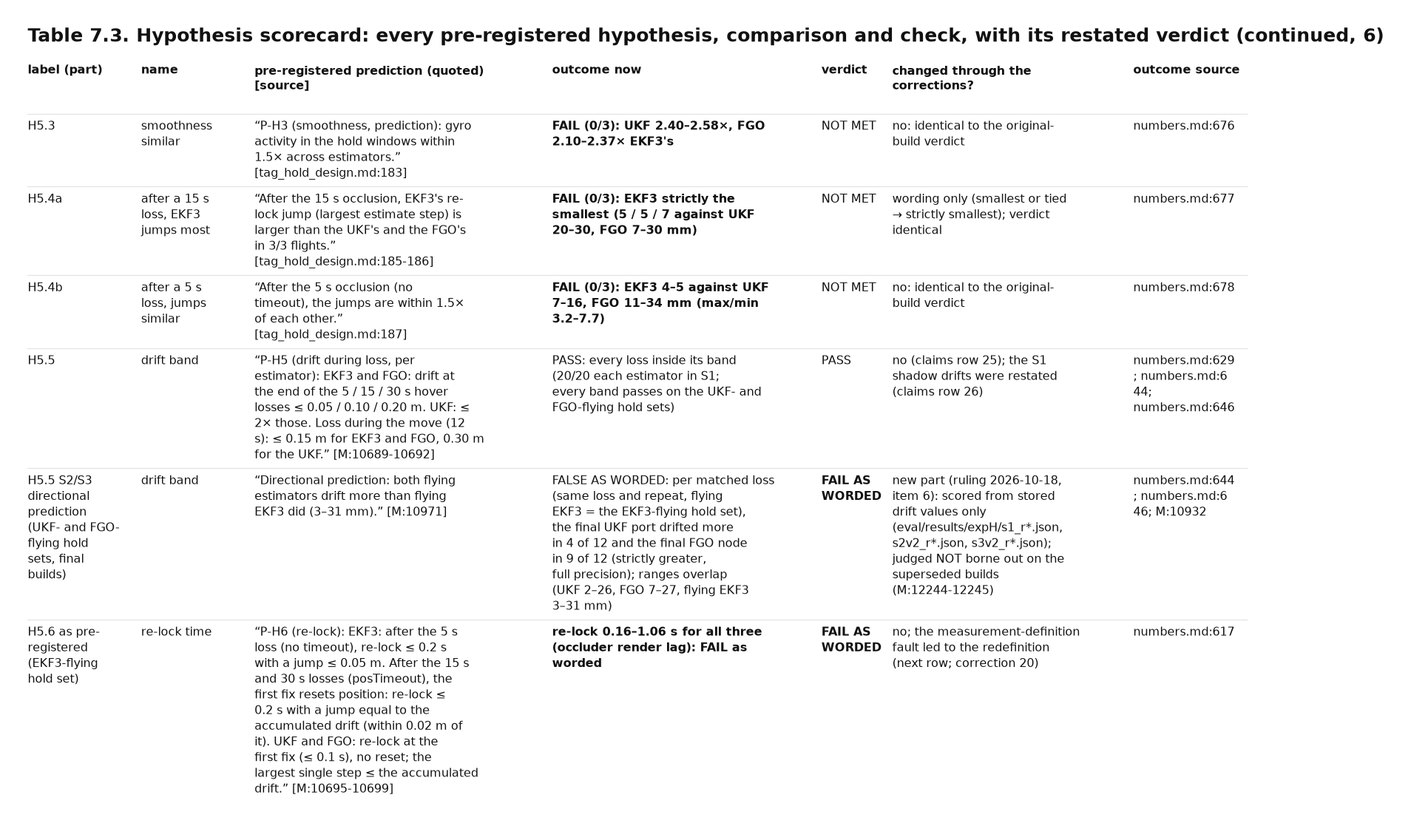
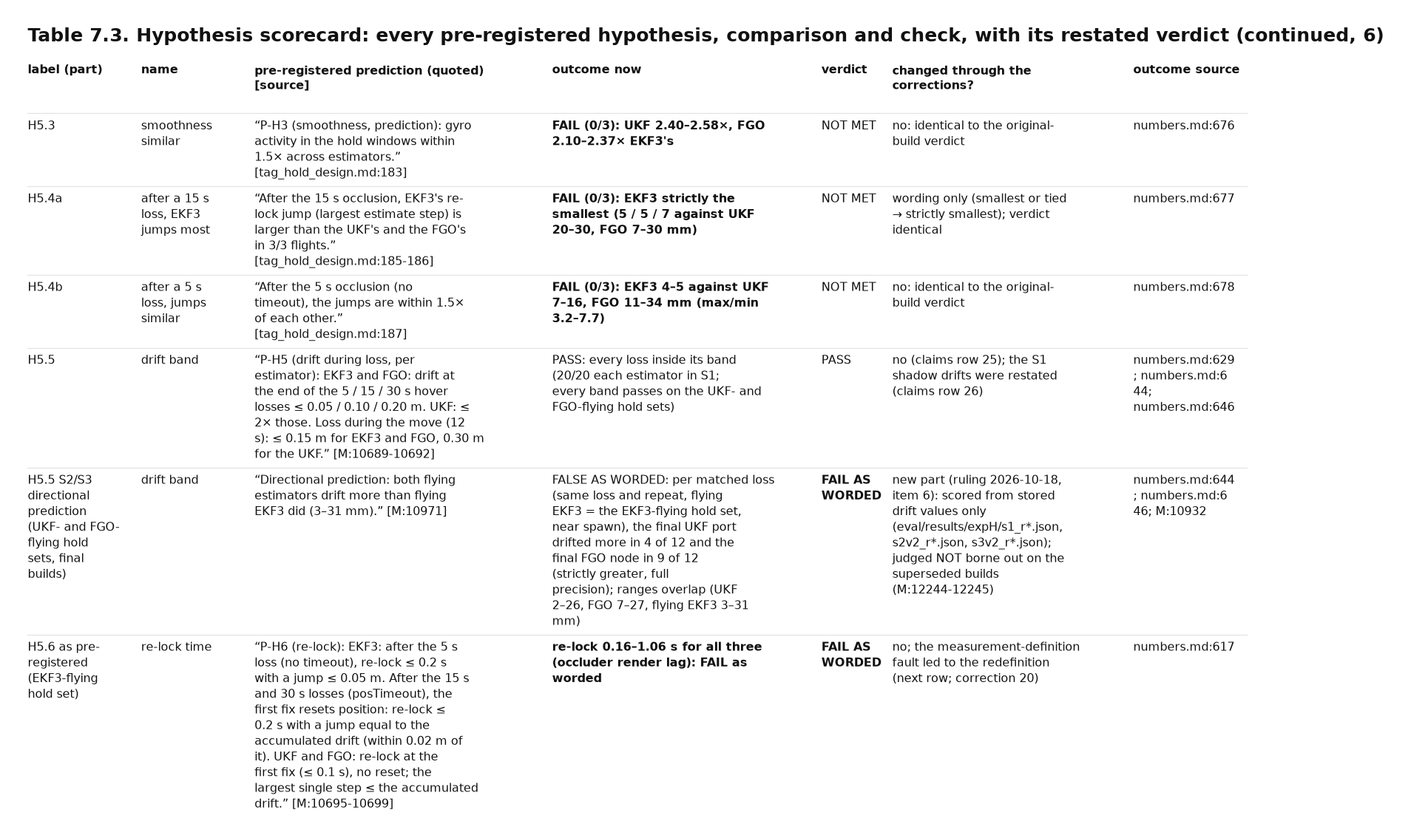
R1 H5.5 directional: comparator named near spawn, spawn-crossing caveat; FAIL AS WORDED rule includes a user ruling; handover: far-spawn sensitivity (UKF 4/12, FGO 7/12, still FALSE), RESULT headings undated

diff --git a/docs/thesis/tables/R1_hypothesis_scorecard.tex b/docs/thesis/tables/R1_hypothesis_scorecard.tex
@@ -1,4 +1,4 @@
-% Table 7.3 (PROPOSED; file R1_hypothesis_scorecard): generated by eval/figs_thesis_results.py (commit 0726900); stored results only. Sources and cross-checks: docs/thesis/figures_thesis/index_results.md.
+% Table 7.3 (PROPOSED; file R1_hypothesis_scorecard): generated by eval/figs_thesis_results.py (commit 6cfedde); stored results only. Sources and cross-checks: docs/thesis/figures_thesis/index_results.md.
 % Needs \usepackage{booktabs} and longtable-free layout; not compiled here (no TeX).
 \begin{table}[htbp]
 \centering
@@ -52,7 +52,7 @@ H5.3 & smoothness similar & ``P-H3 (smoothness, prediction): gyro activity in th
 H5.4a & after a 15 s loss, EKF3 jumps most & ``After the 15 s occlusion, EKF3's re-lock jump (largest estimate step) is larger than the UKF's and the FGO's in 3/3 flights.'' [tag\_hold\_design.md:185-186] & FAIL (0/3): EKF3 strictly the smallest (5 / 5 / 7 against UKF 20--30, FGO 7--30 mm) & NOT MET & wording only (smallest or tied $\rightarrow$ strictly smallest); verdict identical & numbers.md:677 \\
 H5.4b & after a 5 s loss, jumps similar & ``After the 5 s occlusion (no timeout), the jumps are within 1.5$\times$ of each other.'' [tag\_hold\_design.md:187] & FAIL (0/3): EKF3 4--5 against UKF 7--16, FGO 11--34 mm (max/min 3.2--7.7) & NOT MET & no: identical to the original-build verdict & numbers.md:678 \\
 H5.5 & drift band & ``P-H5 (drift during loss, per estimator): EKF3 and FGO: drift at the end of the 5 / 15 / 30 s hover losses $\le$ 0.05 / 0.10 / 0.20 m. UKF: $\le$ 2$\times$ those. Loss during the move (12 s): $\le$ 0.15 m for EKF3 and FGO, 0.30 m for the UKF.'' [M:10689-10692] & PASS: every loss inside its band (20/20 each estimator in S1; every band passes on the UKF- and FGO-flying hold sets) & PASS & no (claims row 25); the S1 shadow drifts were restated (claims row 26) & numbers.md:629; numbers.md:644; numbers.md:646 \\
-H5.5 S2/S3 directional prediction (UKF- and FGO-flying hold sets, final builds) & drift band & ``Directional prediction: both flying estimators drift more than flying EKF3 did (3--31 mm).'' [M:10971] & FALSE AS WORDED: per matched loss (same loss and repeat, flying EKF3 = the EKF3-flying hold set), the final UKF port drifted more in 4 of 12 and the final FGO node in 9 of 12 (strictly greater, full precision); ranges overlap (UKF 2--26, FGO 7--27, flying EKF3 3--31 mm) & FAIL AS WORDED & new part (ruling 2026-10-18, item 6): scored from stored drift values only (eval/results/expH/s1\_r*.json, s2v2\_r*.json, s3v2\_r*.json); judged NOT borne out on the superseded builds (M:12244-12245) & numbers.md:644; numbers.md:646; M:10932 \\
+H5.5 S2/S3 directional prediction (UKF- and FGO-flying hold sets, final builds) & drift band & ``Directional prediction: both flying estimators drift more than flying EKF3 did (3--31 mm).'' [M:10971] & FALSE AS WORDED: per matched loss (same loss and repeat, flying EKF3 = the EKF3-flying hold set, near spawn), the final UKF port drifted more in 4 of 12 and the final FGO node in 9 of 12 (strictly greater, full precision); ranges overlap (UKF 2--26, FGO 7--27, flying EKF3 3--31 mm) & FAIL AS WORDED & new part (ruling 2026-10-18, item 6): scored from stored drift values only (eval/results/expH/s1\_r*.json, s2v2\_r*.json, s3v2\_r*.json); judged NOT borne out on the superseded builds (M:12244-12245) & numbers.md:644; numbers.md:646; M:10932 \\
 H5.6 as pre-registered (EKF3-flying hold set) & re-lock time & ``P-H6 (re-lock): EKF3: after the 5 s loss (no timeout), re-lock $\le$ 0.2 s with a jump $\le$ 0.05 m. After the 15 s and 30 s losses (posTimeout), the first fix resets position: re-lock $\le$ 0.2 s with a jump equal to the accumulated drift (within 0.02 m of it). UKF and FGO: re-lock at the first fix ($\le$ 0.1 s), no reset; the largest single step $\le$ the accumulated drift.'' [M:10695-10699] & re-lock 0.16--1.06 s for all three (occluder render lag): FAIL as worded & FAIL AS WORDED & no; the measurement-definition fault led to the redefinition (next row; correction 20) & numbers.md:617 \\
 H5.6 redefined primary (UKF- and FGO-flying hold sets) & re-lock time & ``Re-lock time, PRIMARY: from the first returning tag detection (the first /tags/raw wall-tag detection after the loss) to the first fix fused by the flying estimator. UKF port: the first ExtNav position update in its log after that detection. FGO: the first keyframe whose factors include that fix. Reason: the S1 finding that Gazebo's occluder rendering lags set\_pose by 0.16--1.0 s, so cover-off timing measures the simulator. Band: $\le$ 0.1 s for both (UKF: VISO\_DELAY\_MS 31 ms plus one step; FGO: $\le$ one keyframe of 33 ms plus the node latency).'' [M:10948-10955] & PASS: UKF $-$0.048\ldots{}$-$0.015 s; FGO 0.002--0.032 s & PASS & a redefinition registered before the S2/S3 flights (correction 20), not a re-scoring of S1 & numbers.md:644; numbers.md:646 \\
 H5.6 jump criterion, kept as worded (UKF- and FGO-flying hold sets) & re-lock time & ``Jump criterion: kept as worded (the largest single estimate step in the 2 s after re-lock $\le$ the accumulated drift at re-lock; UKF/FGO converge without reset).'' [M:10957-10958] & fails as worded: final UKF port in most losses (steps 5--30 mm against drifts 2--26 mm); final FGO node in 4 of 12 losses. Why: the single-step correction at re-lock lands a few mm above the accumulated drift (numbers.md:644, 646) & FAIL AS WORDED & part kept as worded (ruling 2026-10-18; added by ruling 2026-10-17, verbatim wording): the S2/S3 pre-registration kept this criterion as worded; its outcome is recorded (numbers.md \S{}17.1) but was not scored as an H5.6 part before; no new analysis & numbers.md:644; numbers.md:646 \\
@@ -60,10 +60,10 @@ H5.7 & no lockout & ``P-H7 (lockout): no estimator locks out the returning tag i
 \bottomrule
 \end{tabular}
 \par\smallskip\raggedright
-\textit{Note.} Verdicts (the rule used here; the record's own word decides): PASS = the record says PASS, MET or TRUE (including a verdict 'accepted as worded'); FAIL AS WORDED = a failure the record itself labels 'as worded' (the literal verdict, kept although the wording is known to be faulty or unbanded; methodology draft, 'As worded'); NOT MET = a test that was run and whose rule was not met, recorded as FAIL, NOT met, FALSE or MISS without that label; WITHDRAWN = no longer made (methodology draft, 'Withdrawn'): V3 is not re-scorable, so its old PASS is listed and not restated; DESCRIPTIVE = no comparative test (C1.a is a pre-registered comparison with no decision rule; X1.b is exploratory).\par
+\textit{Note.} Verdicts (the rule used here; the record's own word decides): PASS = the record says PASS, MET or TRUE (including a verdict 'accepted as worded'); FAIL AS WORDED = a failure the record itself (or a user ruling) labels 'as worded' (the literal verdict, kept although the wording is known to be faulty or unbanded; methodology draft, 'As worded'); NOT MET = a test that was run and whose rule was not met, recorded as FAIL, NOT met, FALSE or MISS without that label; WITHDRAWN = no longer made (methodology draft, 'Withdrawn'): V3 is not re-scorable, so its old PASS is listed and not restated; DESCRIPTIVE = no comparative test (C1.a is a pre-registered comparison with no decision rule; X1.b is exploratory).\par
 \textit{Note.} Labels with parts are scored per part (H1.2 by wall type and floor, H1.3 (a)/(b), H1.6b and H1.6c (a)/(b), H1.8 and H1.9 per flying estimator, H5.5 its bands and the S2/S3 directional prediction, H5.6 as pre-registered, as redefined and its jump criterion kept as worded), so the counts are per part, not per label.\par
 \textit{Note.} Experiment 5 (ruling 2026-10-17): every H5 prediction is quoted VERBATIM (no ellipsis; checked unbroken in the cited lines, markdown removed) and its verdict is judged against that wording. H5.1, H5.5, H5.6 (as pre-registered) and H5.7 are quoted from the S0/S1 pre-registration (M:10623, 'written before any H flight'); the H5.6 redefinition and its kept jump criterion from the S2/S3 pre-registration (M:10946, 'before any S2/S3 flight'). H5.2--H5.4b have no METHODOLOGY pre-registration line; their only pre-registration is the design draft (tag\_hold\_design.md \S{}e), whose text is unchanged since commit c11fcf3 (2026-10-08 15:17), before the first Experiment 5 flight. Two wordings exist for H5.1 and H5.5: the design draft says 'H-H1 (primary): every estimator holds within tag-fix accuracy. Mean hold error $\le$ 0.05 m and max $\le$ 0.15 m in 3/3 flights per estimator.' (tag\_hold\_design.md:176-177) and 'P-H5 (drift during loss, prediction): GT drift during the 15 s occlusion $\le$ 0.3 m for every estimator.' (tag\_hold\_design.md:188); the METHODOLOGY wording is the one scored. Both PASS under either wording (flying hold sets 6.1--7.4 / 17--21 mm UKF and 8.1--9.0 / 18--28 mm FGO, numbers.md:644, 646; the draft's P-H5 was scored PASS at M:12243).\par
-\textit{Note.} H5.5 S2/S3 directional prediction (ruling 2026-10-18): 'both flying estimators drift more than flying EKF3 did (3--31 mm)' (M:10971, in the S2/S3 pre-registration), scored as worded on the final builds (final UKF port H\_s2v2\_r*, final FGO node H\_s3v2\_r*) against flying EKF3 (the EKF3-flying hold set H\_s1\_r*; the EKF3 shadows of the S2/S3 flights are not used), from stored drift values only. Primary: per matched loss (the same loss, 5 / 15 / 30 s hover or \textasciitilde{}7 s move, and the same repeat: 12 per estimator), 'more' = strictly greater at full precision, on the effective drift (last fix to first returning fix), the metric of the registered 3--31 mm (M:10827-10828); it holds iff both estimators exceed flying EKF3 in every matched loss. Result: UKF 4 of 12, FGO 9 of 12; the end-of-loss metric gives the same counts; at the displayed mm precision UKF 3 of 12 (one UKF pair, repeat 2, 30 s loss, equal at that precision) and FGO 9 of 12. The ranges overlap (UKF 2--26, FGO 7--27, flying EKF3 3--31 mm). FALSE AS WORDED, counted as FAIL AS WORDED. Caveat (M:12249): each estimator flew its own flights, so the pairing is by run index, not the same trajectory. The superseded builds were judged NOT borne out (M:12244-12245).\par
+\textit{Note.} H5.5 S2/S3 directional prediction (ruling 2026-10-18): 'both flying estimators drift more than flying EKF3 did (3--31 mm)' (M:10971, in the S2/S3 pre-registration), scored as worded on the final builds (final UKF port H\_s2v2\_r*, final FGO node H\_s3v2\_r*) against flying EKF3 (the EKF3-flying hold set H\_s1\_r*, near spawn, the source of the registered 3--31 mm; the EKF3 shadows of the S2/S3 flights are not used), from stored drift values only. Primary: per matched loss (the same loss, 5 / 15 / 30 s hover or \textasciitilde{}7 s move, and the same repeat: 12 per estimator), 'more' = strictly greater at full precision, on the effective drift (last fix to first returning fix), the metric of the registered 3--31 mm (M:10827-10828); it holds iff both estimators exceed flying EKF3 in every matched loss. Result: UKF 4 of 12, FGO 9 of 12; the end-of-loss metric gives the same counts; at the displayed mm precision UKF 3 of 12 (one UKF pair, repeat 2, 30 s loss, equal at that precision) and FGO 9 of 12. The ranges overlap (UKF 2--26, FGO 7--27, flying EKF3 3--31 mm). FALSE AS WORDED, counted as FAIL AS WORDED. Caveat (M:12249): each estimator flew its own flights, so the pairing is by run index, not the same trajectory; it also crosses spawn points (the final-build UKF and FGO sets flew from the far spawn). The superseded builds were judged NOT borne out (M:12244-12245).\par
 \textit{Note.} H1.3 is shown as recorded on 2026-09-29 (M:3440-3448): no restated Phase 5 verdict exists after the final re-runs, only the restated decomposition magnitudes (numbers.md:263). The criteria families without hypothesis labels (dataset-quality bands, the 5S safety criteria) are not scored here: numbers.md \S{}8 and Table A.2.\par
 \textit{Note.} 'Changed through the corrections?' names the claims-table row (headline\_claims\_before\_after.md) and the correction number (Table 7.4) where the sources link them. Corrections applied in one batch are applied jointly and not attributed individually (corrections file, attribution rule); a correction number after a change means 'in the batch that contained it', except where marked as a flight pair or a partial attribution.\par
 \end{table}

diff --git a/eval/figs_thesis_results.py b/eval/figs_thesis_results.py
@@ -158,7 +158,7 @@ def save_tab(num, name, title, caption, header, rows, widths, inputs, notes=(), 
 # =============================================================================================== R1 HYPOTHESIS SCORECARD
 # Verdict categories (rule stated in the table note and index_results.md):
 #   PASS            the record's verdict word is PASS, MET or TRUE (incl. "accepted as worded")
-#   FAIL AS WORDED  a failure that the record itself labels "as worded" (methodology_definitions_draft.md, "As worded")
+#   FAIL AS WORDED  a failure that the record itself (or a user ruling) labels "as worded" (methodology_definitions_draft.md, "As worded")
 #   NOT MET         a test run whose decision rule was not met, recorded as FAIL, NOT met, FALSE or MISS, with no "as worded" label
 #   WITHDRAWN       no longer made (methodology_definitions_draft.md, "Withdrawn"); V3 is listed, not restated
 #   DESCRIPTIVE     no comparative test: a pre-registered comparison with no decision rule (C) or an exploratory analysis (X)
@@ -449,7 +449,7 @@ R1 = [
  ("H5.5", "drift band", "S2/S3 directional prediction (UKF- and FGO-flying hold sets, final builds)",
   "Directional prediction: both flying estimators drift more than flying EKF3 did (3–31 mm).", ("M", 10971, None),
   ["Directional prediction: both flying estimators drift more than flying EKF3 did (3–31 mm)."],
-  f"FALSE AS WORDED: per matched loss (same loss and repeat, flying EKF3 = the EKF3-flying hold set), the final UKF port drifted more "
+  f"FALSE AS WORDED: per matched loss (same loss and repeat, flying EKF3 = the EKF3-flying hold set, near spawn), the final UKF port drifted more "
   f"in {H5D['n_ukf']} and the final FGO node in {H5D['n_fgo']} (strictly greater, full precision); ranges overlap (UKF {H5D['r_ukf']}, "
   f"FGO {H5D['r_fgo']}, flying EKF3 {H5D['r_ekf']} mm)",
   [("numbers.md", 644, None, [H5D["l_ukf"], "drifts 2–26 mm"]), ("numbers.md", 646, None, [H5D["l_fgo"]]),
@@ -570,7 +570,7 @@ save_tab("Table 7.3", "R1_hypothesis_scorecard", "Hypothesis scorecard: every pr
          "METHODOLOGY.md and docs/tag_hold_design.md (predictions); docs/thesis/numbers.md (outcomes); docs/thesis/headline_claims_before_after.md "
          "(claims rows); eval/results/dsn_paired_test.json, expT/t_aggregate.json, expO/O_*.json (numeric cross-checks)",
          notes=["Verdicts (the rule used here; the record's own word decides): PASS = the record says PASS, MET or TRUE (including a verdict "
-                "'accepted as worded'); FAIL AS WORDED = a failure the record itself labels 'as worded' (the literal verdict, kept although the "
+                "'accepted as worded'); FAIL AS WORDED = a failure the record itself (or a user ruling) labels 'as worded' (the literal verdict, kept although the "
                 "wording is known to be faulty or unbanded; methodology draft, 'As worded'); NOT MET = a test that was run and whose rule was not "
                 "met, recorded as FAIL, NOT met, FALSE or MISS without that label; WITHDRAWN = no longer made (methodology draft, 'Withdrawn'): V3 "
                 "is not re-scorable, so its old PASS is listed and not restated; DESCRIPTIVE = no comparative test (C1.a is a pre-registered "
@@ -589,7 +589,7 @@ save_tab("Table 7.3", "R1_hypothesis_scorecard", "Hypothesis scorecard: every pr
                 "M:12243).",
                 "H5.5 S2/S3 directional prediction (ruling 2026-10-18): 'both flying estimators drift more than flying EKF3 did (3–31 mm)' "
                 "(M:10971, in the S2/S3 pre-registration), scored as worded on the final builds (final UKF port H_s2v2_r*, final FGO node "
-                "H_s3v2_r*) against flying EKF3 (the EKF3-flying hold set H_s1_r*; the EKF3 shadows of the S2/S3 flights are not used), "
+                "H_s3v2_r*) against flying EKF3 (the EKF3-flying hold set H_s1_r*, near spawn, the source of the registered 3–31 mm; the EKF3 shadows of the S2/S3 flights are not used), "
                 "from stored drift values only. Primary: per matched loss (the same loss, 5 / 15 / 30 s hover or ~7 s move, and the same "
                 "repeat: 12 per estimator), 'more' = strictly greater at full precision, on the effective drift (last fix to first "
                 "returning fix), the metric of the registered 3–31 mm (M:10827-10828); it holds iff both estimators exceed flying EKF3 in "
@@ -597,7 +597,7 @@ save_tab("Table 7.3", "R1_hypothesis_scorecard", "Hypothesis scorecard: every pr
                 f"displayed mm precision UKF {H5D['ndisp_ukf']} (one UKF pair, repeat 2, 30 s loss, equal at that precision) and FGO "
                 f"{H5D['ndisp_fgo']}. The ranges overlap (UKF {H5D['r_ukf']}, FGO {H5D['r_fgo']}, flying EKF3 {H5D['r_ekf']} mm). FALSE AS "
                 "WORDED, counted as FAIL AS WORDED. Caveat (M:12249): each estimator flew its own flights, so the pairing is by run index, "
-                "not the same trajectory. The superseded builds were judged NOT borne out (M:12244-12245).",
+                "not the same trajectory; it also crosses spawn points (the final-build UKF and FGO sets flew from the far spawn). The superseded builds were judged NOT borne out (M:12244-12245).",
                 "H1.3 is shown as recorded on 2026-09-29 (M:3440-3448): no restated Phase 5 verdict exists after the final re-runs, only the restated "
                 "decomposition magnitudes (numbers.md:263). The criteria families without hypothesis labels (dataset-quality bands, the 5S safety "
                 "criteria) are not scored here: numbers.md §8 and Table A.2.",

diff --git a/docs/thesis/tables/R2_corrections_by_discovery.tex b/docs/thesis/tables/R2_corrections_by_discovery.tex
@@ -1,4 +1,4 @@
-% Table 7.4 (PROPOSED; file R2_corrections_by_discovery): generated by eval/figs_thesis_results.py (commit 0726900); stored results only. Sources and cross-checks: docs/thesis/figures_thesis/index_results.md.
+% Table 7.4 (PROPOSED; file R2_corrections_by_discovery): generated by eval/figs_thesis_results.py (commit 6cfedde); stored results only. Sources and cross-checks: docs/thesis/figures_thesis/index_results.md.
 % Needs \usepackage{booktabs} and longtable-free layout; not compiled here (no TeX).
 \begin{table}[htbp]
 \centering

diff --git a/docs/thesis/tables/R4_information_vs_estimator.tex b/docs/thesis/tables/R4_information_vs_estimator.tex
@@ -1,4 +1,4 @@
-% Table 7.5 (PROPOSED; file R4_information_vs_estimator): generated by eval/figs_thesis_results.py (commit 0726900); stored results only. Sources and cross-checks: docs/thesis/figures_thesis/index_results.md.
+% Table 7.5 (PROPOSED; file R4_information_vs_estimator): generated by eval/figs_thesis_results.py (commit 6cfedde); stored results only. Sources and cross-checks: docs/thesis/figures_thesis/index_results.md.
 % Needs \usepackage{booktabs} and longtable-free layout; not compiled here (no TeX).
 \begin{table}[htbp]
 \centering

diff --git a/docs/thesis/tables/R1_hypothesis_scorecard.md b/docs/thesis/tables/R1_hypothesis_scorecard.md
@@ -47,22 +47,22 @@ Each row quotes the pre-registered prediction (with its source line), the outcom
 | H5.4a | after a 15 s loss, EKF3 jumps most | “After the 15 s occlusion, EKF3's re-lock jump (largest estimate step) is larger than the UKF's and the FGO's in 3/3 flights.” [tag_hold_design.md:185-186] | FAIL (0/3): EKF3 strictly the smallest (5 / 5 / 7 against UKF 20–30, FGO 7–30 mm) | NOT MET | wording only (smallest or tied → strictly smallest); verdict identical | numbers.md:677 |
 | H5.4b | after a 5 s loss, jumps similar | “After the 5 s occlusion (no timeout), the jumps are within 1.5× of each other.” [tag_hold_design.md:187] | FAIL (0/3): EKF3 4–5 against UKF 7–16, FGO 11–34 mm (max/min 3.2–7.7) | NOT MET | no: identical to the original-build verdict | numbers.md:678 |
 | H5.5 | drift band | “P-H5 (drift during loss, per estimator): EKF3 and FGO: drift at the end of the 5 / 15 / 30 s hover losses ≤ 0.05 / 0.10 / 0.20 m. UKF: ≤ 2× those. Loss during the move (12 s): ≤ 0.15 m for EKF3 and FGO, 0.30 m for the UKF.” [M:10689-10692] | PASS: every loss inside its band (20/20 each estimator in S1; every band passes on the UKF- and FGO-flying hold sets) | PASS | no (claims row 25); the S1 shadow drifts were restated (claims row 26) | numbers.md:629; numbers.md:644; numbers.md:646 |
-| H5.5 S2/S3 directional prediction (UKF- and FGO-flying hold sets, final builds) | drift band | “Directional prediction: both flying estimators drift more than flying EKF3 did (3–31 mm).” [M:10971] | FALSE AS WORDED: per matched loss (same loss and repeat, flying EKF3 = the EKF3-flying hold set), the final UKF port drifted more in 4 of 12 and the final FGO node in 9 of 12 (strictly greater, full precision); ranges overlap (UKF 2–26, FGO 7–27, flying EKF3 3–31 mm) | FAIL AS WORDED | new part (ruling 2026-10-18, item 6): scored from stored drift values only (eval/results/expH/s1_r*.json, s2v2_r*.json, s3v2_r*.json); judged NOT borne out on the superseded builds (M:12244-12245) | numbers.md:644; numbers.md:646; M:10932 |
+| H5.5 S2/S3 directional prediction (UKF- and FGO-flying hold sets, final builds) | drift band | “Directional prediction: both flying estimators drift more than flying EKF3 did (3–31 mm).” [M:10971] | FALSE AS WORDED: per matched loss (same loss and repeat, flying EKF3 = the EKF3-flying hold set, near spawn), the final UKF port drifted more in 4 of 12 and the final FGO node in 9 of 12 (strictly greater, full precision); ranges overlap (UKF 2–26, FGO 7–27, flying EKF3 3–31 mm) | FAIL AS WORDED | new part (ruling 2026-10-18, item 6): scored from stored drift values only (eval/results/expH/s1_r*.json, s2v2_r*.json, s3v2_r*.json); judged NOT borne out on the superseded builds (M:12244-12245) | numbers.md:644; numbers.md:646; M:10932 |
 | H5.6 as pre-registered (EKF3-flying hold set) | re-lock time | “P-H6 (re-lock): EKF3: after the 5 s loss (no timeout), re-lock ≤ 0.2 s with a jump ≤ 0.05 m. After the 15 s and 30 s losses (posTimeout), the first fix resets position: re-lock ≤ 0.2 s with a jump equal to the accumulated drift (within 0.02 m of it). UKF and FGO: re-lock at the first fix (≤ 0.1 s), no reset; the largest single step ≤ the accumulated drift.” [M:10695-10699] | re-lock 0.16–1.06 s for all three (occluder render lag): FAIL as worded | FAIL AS WORDED | no; the measurement-definition fault led to the redefinition (next row; correction 20) | numbers.md:617 |
 | H5.6 redefined primary (UKF- and FGO-flying hold sets) | re-lock time | “Re-lock time, PRIMARY: from the first returning tag detection (the first /tags/raw wall-tag detection after the loss) to the first fix fused by the flying estimator. UKF port: the first ExtNav position update in its log after that detection. FGO: the first keyframe whose factors include that fix. Reason: the S1 finding that Gazebo's occluder rendering lags set_pose by 0.16–1.0 s, so cover-off timing measures the simulator. Band: ≤ 0.1 s for both (UKF: VISO_DELAY_MS 31 ms plus one step; FGO: ≤ one keyframe of 33 ms plus the node latency).” [M:10948-10955] | PASS: UKF −0.048…−0.015 s; FGO 0.002–0.032 s | PASS | a redefinition registered before the S2/S3 flights (correction 20), not a re-scoring of S1 | numbers.md:644; numbers.md:646 |
 | H5.6 jump criterion, kept as worded (UKF- and FGO-flying hold sets) | re-lock time | “Jump criterion: kept as worded (the largest single estimate step in the 2 s after re-lock ≤ the accumulated drift at re-lock; UKF/FGO converge without reset).” [M:10957-10958] | fails as worded: final UKF port in most losses (steps 5–30 mm against drifts 2–26 mm); final FGO node in 4 of 12 losses. Why: the single-step correction at re-lock lands a few mm above the accumulated drift (numbers.md:644, 646) | FAIL AS WORDED | part kept as worded (ruling 2026-10-18; added by ruling 2026-10-17, verbatim wording): the S2/S3 pre-registration kept this criterion as worded; its outcome is recorded (numbers.md §17.1) but was not scored as an H5.6 part before; no new analysis | numbers.md:644; numbers.md:646 |
 | H5.7 | no lockout | “P-H7 (lockout): no estimator locks out the returning tag in any loss.” [M:10700] | PASS: no lockout in any loss | PASS | no (claims row 25) | numbers.md:629 |
 
-*Verdicts (the rule used here; the record's own word decides): PASS = the record says PASS, MET or TRUE (including a verdict 'accepted as worded'); FAIL AS WORDED = a failure the record itself labels 'as worded' (the literal verdict, kept although the wording is known to be faulty or unbanded; methodology draft, 'As worded'); NOT MET = a test that was run and whose rule was not met, recorded as FAIL, NOT met, FALSE or MISS without that label; WITHDRAWN = no longer made (methodology draft, 'Withdrawn'): V3 is not re-scorable, so its old PASS is listed and not restated; DESCRIPTIVE = no comparative test (C1.a is a pre-registered comparison with no decision rule; X1.b is exploratory).*
+*Verdicts (the rule used here; the record's own word decides): PASS = the record says PASS, MET or TRUE (including a verdict 'accepted as worded'); FAIL AS WORDED = a failure the record itself (or a user ruling) labels 'as worded' (the literal verdict, kept although the wording is known to be faulty or unbanded; methodology draft, 'As worded'); NOT MET = a test that was run and whose rule was not met, recorded as FAIL, NOT met, FALSE or MISS without that label; WITHDRAWN = no longer made (methodology draft, 'Withdrawn'): V3 is not re-scorable, so its old PASS is listed and not restated; DESCRIPTIVE = no comparative test (C1.a is a pre-registered comparison with no decision rule; X1.b is exploratory).*
 
 *Labels with parts are scored per part (H1.2 by wall type and floor, H1.3 (a)/(b), H1.6b and H1.6c (a)/(b), H1.8 and H1.9 per flying estimator, H5.5 its bands and the S2/S3 directional prediction, H5.6 as pre-registered, as redefined and its jump criterion kept as worded), so the counts are per part, not per label.*
 
 *Experiment 5 (ruling 2026-10-17): every H5 prediction is quoted VERBATIM (no ellipsis; checked unbroken in the cited lines, markdown removed) and its verdict is judged against that wording. H5.1, H5.5, H5.6 (as pre-registered) and H5.7 are quoted from the S0/S1 pre-registration (M:10623, 'written before any H flight'); the H5.6 redefinition and its kept jump criterion from the S2/S3 pre-registration (M:10946, 'before any S2/S3 flight'). H5.2–H5.4b have no METHODOLOGY pre-registration line; their only pre-registration is the design draft (tag_hold_design.md §e), whose text is unchanged since commit c11fcf3 (2026-10-08 15:17), before the first Experiment 5 flight. Two wordings exist for H5.1 and H5.5: the design draft says 'H-H1 (primary): every estimator holds within tag-fix accuracy. Mean hold error ≤ 0.05 m and max ≤ 0.15 m in 3/3 flights per estimator.' (tag_hold_design.md:176-177) and 'P-H5 (drift during loss, prediction): GT drift during the 15 s occlusion ≤ 0.3 m for every estimator.' (tag_hold_design.md:188); the METHODOLOGY wording is the one scored. Both PASS under either wording (flying hold sets 6.1–7.4 / 17–21 mm UKF and 8.1–9.0 / 18–28 mm FGO, numbers.md:644, 646; the draft's P-H5 was scored PASS at M:12243).*
 
-*H5.5 S2/S3 directional prediction (ruling 2026-10-18): 'both flying estimators drift more than flying EKF3 did (3–31 mm)' (M:10971, in the S2/S3 pre-registration), scored as worded on the final builds (final UKF port H_s2v2_r*, final FGO node H_s3v2_r*) against flying EKF3 (the EKF3-flying hold set H_s1_r*; the EKF3 shadows of the S2/S3 flights are not used), from stored drift values only. Primary: per matched loss (the same loss, 5 / 15 / 30 s hover or ~7 s move, and the same repeat: 12 per estimator), 'more' = strictly greater at full precision, on the effective drift (last fix to first returning fix), the metric of the registered 3–31 mm (M:10827-10828); it holds iff both estimators exceed flying EKF3 in every matched loss. Result: UKF 4 of 12, FGO 9 of 12; the end-of-loss metric gives the same counts; at the displayed mm precision UKF 3 of 12 (one UKF pair, repeat 2, 30 s loss, equal at that precision) and FGO 9 of 12. The ranges overlap (UKF 2–26, FGO 7–27, flying EKF3 3–31 mm). FALSE AS WORDED, counted as FAIL AS WORDED. Caveat (M:12249): each estimator flew its own flights, so the pairing is by run index, not the same trajectory. The superseded builds were judged NOT borne out (M:12244-12245).*
+*H5.5 S2/S3 directional prediction (ruling 2026-10-18): 'both flying estimators drift more than flying EKF3 did (3–31 mm)' (M:10971, in the S2/S3 pre-registration), scored as worded on the final builds (final UKF port H_s2v2_r*, final FGO node H_s3v2_r*) against flying EKF3 (the EKF3-flying hold set H_s1_r*, near spawn, the source of the registered 3–31 mm; the EKF3 shadows of the S2/S3 flights are not used), from stored drift values only. Primary: per matched loss (the same loss, 5 / 15 / 30 s hover or ~7 s move, and the same repeat: 12 per estimator), 'more' = strictly greater at full precision, on the effective drift (last fix to first returning fix), the metric of the registered 3–31 mm (M:10827-10828); it holds iff both estimators exceed flying EKF3 in every matched loss. Result: UKF 4 of 12, FGO 9 of 12; the end-of-loss metric gives the same counts; at the displayed mm precision UKF 3 of 12 (one UKF pair, repeat 2, 30 s loss, equal at that precision) and FGO 9 of 12. The ranges overlap (UKF 2–26, FGO 7–27, flying EKF3 3–31 mm). FALSE AS WORDED, counted as FAIL AS WORDED. Caveat (M:12249): each estimator flew its own flights, so the pairing is by run index, not the same trajectory; it also crosses spawn points (the final-build UKF and FGO sets flew from the far spawn). The superseded builds were judged NOT borne out (M:12244-12245).*
 
 *H1.3 is shown as recorded on 2026-09-29 (M:3440-3448): no restated Phase 5 verdict exists after the final re-runs, only the restated decomposition magnitudes (numbers.md:263). The criteria families without hypothesis labels (dataset-quality bands, the 5S safety criteria) are not scored here: numbers.md §8 and Table A.2.*
 
 *'Changed through the corrections?' names the claims-table row (headline_claims_before_after.md) and the correction number (Table 7.4) where the sources link them. Corrections applied in one batch are applied jointly and not attributed individually (corrections file, attribution rule); a correction number after a change means 'in the batch that contained it', except where marked as a flight pair or a partial attribution.*
 
-<!-- generated by eval/figs_thesis_results.py (commit 0726900); stored results only. Sources, cross-checks and gaps: docs/thesis/figures_thesis/index_results.md, Table 7.3 (PROPOSED). -->
+<!-- generated by eval/figs_thesis_results.py (commit 6cfedde); stored results only. Sources, cross-checks and gaps: docs/thesis/figures_thesis/index_results.md, Table 7.3 (PROPOSED). -->

diff --git a/docs/thesis/figures_thesis/index_results.md b/docs/thesis/figures_thesis/index_results.md
@@ -1,6 +1,6 @@
 # Results and discussion tables and figure: index (PROPOSED numbering)
 
-*Generated by `eval/figs_thesis_results.py` at commit `0726900`. Stored results and documents only: no simulation, no estimator re-run, and nothing in numbers.md, METHODOLOGY.md, the frozen pack or the in-use thesis files was edited. Not yet in the combined PDF (integration comes later).*
+*Generated by `eval/figs_thesis_results.py` at commit `6cfedde`. Stored results and documents only: no simulation, no estimator re-run, and nothing in numbers.md, METHODOLOGY.md, the frozen pack or the in-use thesis files was edited. Not yet in the combined PDF (integration comes later).*
 
[1 lines of base64/hex data omitted]
 
@@ -21,13 +21,13 @@ None of these numbers is used in `figs_thesis.py`'s TNUM (4.1, 5.1–5.3, 6.1, 7
 
 **Caption.** Each row quotes the pre-registered prediction (with its source line), the outcome now (after the final re-runs and the rulings of 2026-10-16) and one of five verdicts. Counts per scored part (48 parts, 35 labels): PASS 24, FAIL AS WORDED 5, NOT MET 16, WITHDRAWN 1, DESCRIPTIVE 2.
 
-*Note.* Verdicts (the rule used here; the record's own word decides): PASS = the record says PASS, MET or TRUE (including a verdict 'accepted as worded'); FAIL AS WORDED = a failure the record itself labels 'as worded' (the literal verdict, kept although the wording is known to be faulty or unbanded; methodology draft, 'As worded'); NOT MET = a test that was run and whose rule was not met, recorded as FAIL, NOT met, FALSE or MISS without that label; WITHDRAWN = no longer made (methodology draft, 'Withdrawn'): V3 is not re-scorable, so its old PASS is listed and not restated; DESCRIPTIVE = no comparative test (C1.a is a pre-registered comparison with no decision rule; X1.b is exploratory).
+*Note.* Verdicts (the rule used here; the record's own word decides): PASS = the record says PASS, MET or TRUE (including a verdict 'accepted as worded'); FAIL AS WORDED = a failure the record itself (or a user ruling) labels 'as worded' (the literal verdict, kept although the wording is known to be faulty or unbanded; methodology draft, 'As worded'); NOT MET = a test that was run and whose rule was not met, recorded as FAIL, NOT met, FALSE or MISS without that label; WITHDRAWN = no longer made (methodology draft, 'Withdrawn'): V3 is not re-scorable, so its old PASS is listed and not restated; DESCRIPTIVE = no comparative test (C1.a is a pre-registered comparison with no decision rule; X1.b is exploratory).
 
 *Note.* Labels with parts are scored per part (H1.2 by wall type and floor, H1.3 (a)/(b), H1.6b and H1.6c (a)/(b), H1.8 and H1.9 per flying estimator, H5.5 its bands and the S2/S3 directional prediction, H5.6 as pre-registered, as redefined and its jump criterion kept as worded), so the counts are per part, not per label.
 
 *Note.* Experiment 5 (ruling 2026-10-17): every H5 prediction is quoted VERBATIM (no ellipsis; checked unbroken in the cited lines, markdown removed) and its verdict is judged against that wording. H5.1, H5.5, H5.6 (as pre-registered) and H5.7 are quoted from the S0/S1 pre-registration (M:10623, 'written before any H flight'); the H5.6 redefinition and its kept jump criterion from the S2/S3 pre-registration (M:10946, 'before any S2/S3 flight'). H5.2–H5.4b have no METHODOLOGY pre-registration line; their only pre-registration is the design draft (tag_hold_design.md §e), whose text is unchanged since commit c11fcf3 (2026-10-08 15:17), before the first Experiment 5 flight. Two wordings exist for H5.1 and H5.5: the design draft says 'H-H1 (primary): every estimator holds within tag-fix accuracy. Mean hold error ≤ 0.05 m and max ≤ 0.15 m in 3/3 flights per estimator.' (tag_hold_design.md:176-177) and 'P-H5 (drift during loss, prediction): GT drift during the 15 s occlusion ≤ 0.3 m for every estimator.' (tag_hold_design.md:188); the METHODOLOGY wording is the one scored. Both PASS under either wording (flying hold sets 6.1–7.4 / 17–21 mm UKF and 8.1–9.0 / 18–28 mm FGO, numbers.md:644, 646; the draft's P-H5 was scored PASS at M:12243).
 
-*Note.* H5.5 S2/S3 directional prediction (ruling 2026-10-18): 'both flying estimators drift more than flying EKF3 did (3–31 mm)' (M:10971, in the S2/S3 pre-registration), scored as worded on the final builds (final UKF port H_s2v2_r*, final FGO node H_s3v2_r*) against flying EKF3 (the EKF3-flying hold set H_s1_r*; the EKF3 shadows of the S2/S3 flights are not used), from stored drift values only. Primary: per matched loss (the same loss, 5 / 15 / 30 s hover or ~7 s move, and the same repeat: 12 per estimator), 'more' = strictly greater at full precision, on the effective drift (last fix to first returning fix), the metric of the registered 3–31 mm (M:10827-10828); it holds iff both estimators exceed flying EKF3 in every matched loss. Result: UKF 4 of 12, FGO 9 of 12; the end-of-loss metric gives the same counts; at the displayed mm precision UKF 3 of 12 (one UKF pair, repeat 2, 30 s loss, equal at that precision) and FGO 9 of 12. The ranges overlap (UKF 2–26, FGO 7–27, flying EKF3 3–31 mm). FALSE AS WORDED, counted as FAIL AS WORDED. Caveat (M:12249): each estimator flew its own flights, so the pairing is by run index, not the same trajectory. The superseded builds were judged NOT borne out (M:12244-12245).
+*Note.* H5.5 S2/S3 directional prediction (ruling 2026-10-18): 'both flying estimators drift more than flying EKF3 did (3–31 mm)' (M:10971, in the S2/S3 pre-registration), scored as worded on the final builds (final UKF port H_s2v2_r*, final FGO node H_s3v2_r*) against flying EKF3 (the EKF3-flying hold set H_s1_r*, near spawn, the source of the registered 3–31 mm; the EKF3 shadows of the S2/S3 flights are not used), from stored drift values only. Primary: per matched loss (the same loss, 5 / 15 / 30 s hover or ~7 s move, and the same repeat: 12 per estimator), 'more' = strictly greater at full precision, on the effective drift (last fix to first returning fix), the metric of the registered 3–31 mm (M:10827-10828); it holds iff both estimators exceed flying EKF3 in every matched loss. Result: UKF 4 of 12, FGO 9 of 12; the end-of-loss metric gives the same counts; at the displayed mm precision UKF 3 of 12 (one UKF pair, repeat 2, 30 s loss, equal at that precision) and FGO 9 of 12. The ranges overlap (UKF 2–26, FGO 7–27, flying EKF3 3–31 mm). FALSE AS WORDED, counted as FAIL AS WORDED. Caveat (M:12249): each estimator flew its own flights, so the pairing is by run index, not the same trajectory; it also crosses spawn points (the final-build UKF and FGO sets flew from the far spawn). The superseded builds were judged NOT borne out (M:12244-12245).
 
 *Note.* H1.3 is shown as recorded on 2026-09-29 (M:3440-3448): no restated Phase 5 verdict exists after the final re-runs, only the restated decomposition magnitudes (numbers.md:263). The criteria families without hypothesis labels (dataset-quality bands, the 5S safety criteria) are not scored here: numbers.md §8 and Table A.2.
 

diff --git a/docs/handovers/2026-10-18_table_rulings.md b/docs/handovers/2026-10-18_table_rulings.md
@@ -48,7 +48,8 @@ numbers.md:490-491, so nothing needed redirecting to the E3 corrected text.
   check, `git show c11fcf3:METHODOLOGY.md`).
 - **First H flight:** `H_s0a`, metadata `timestamp_utc: 2026-10-08T04:29:51Z` = 15:29:51 +1100, 12 min after the commit
   (build-time check). The first attempt `H_s0a_ABORTED` (directory created 15:20:23 +1100, still after the commit)
-  "aborted before take-off" (M:10711-10712). The S0a RESULT entry (M:10704) gives no date. First S1 (scored) flight
+  "aborted before take-off" (M:10711-10712). None of the Experiment H RESULT headings (S0a M:10704, S0b M:10783, S1
+  M:10798) carries a date, so the dates come from the commit and the trial metadata. First S1 (scored) flight
   `H_s1_r1`: 06:05:34Z = 17:05 +1100.
   - **Discrepancy flagged:** the previous handover gave `H_s1_r1` as "2026-10-08 21:50"; its metadata says 17:05 +1100.
     Either way it is after the commit.
@@ -80,6 +81,12 @@ numbers.md:490-491, so nothing needed redirecting to the E3 corrected text.
   (4 of 12, 9 of 12, the display-precision 3 of 12, the tie) and the FGO effective range "7–27". They use a new
   `jcheck()` (exact string equality against the stored json; the source column says "new value; no document line").
   The FGO 7–27 and UKF 2–26 also match Table A.2's (already cross-checked) "tag-loss drift (effective)" column.
+- **Spawn points (disclosed in the R1 note):** the comparator `H_s1_r*` is the near-spawn EKF3-flying set (the source of the
+  registered 3–31 mm); S2v2/S3v2 flew from the far spawn (numbers.md:635). **Sensitivity (handover only, no table value):**
+  against the far-spawn flying EKF3 (`s1far_r1`, `s1far_r2`, `s1far_r3b`, effective drift 2.8–26.0 mm; loss classes
+  asserted to match), UKF 4 of 12, FGO 7 of 12: still FALSE.
+- **Category rule:** the R1 rule note now reads "FAIL AS WORDED = a failure the record itself (or a user ruling) labels
+  'as worded'", since the record says only "NOT borne out" (M:12244) and "as worded" comes from the ruling.
 - **Placement (a choice, flag if wrong):** a part of label H5.5 (the prediction sits in the S2/S3 "Drift during loss"
   block), so the label count stays 35. The "Labels with parts" note now includes H5.5; the old "Not scored here" sentence
   is replaced by a scoring note.
@@ -103,6 +110,8 @@ numbers.md:490-491, so nothing needed redirecting to the E3 corrected text.
 - **A2:** page 1 PNG/PDF only (no .md/.tex): the note text. **T2–T8, R2, R4:** no change except the commit hash in the
   generated comment. Figure PDFs differ only in embedded metadata.
 - No stale `_pN` pages: R1 stays 8 pages, T1 3 pages, A2 3 pages.
+- A full line diff (not only the number count) of index_results.md and R1 .md/.tex against `0726900` shows only the lines
+  above (caption counts, notes, the new row and its checks, the H5.6 reason, the category-rule wording, commit hashes).
 
 ## Open items needing a ruling
 

diff --git a/docs/thesis/tables/R2_corrections_by_discovery.md b/docs/thesis/tables/R2_corrections_by_discovery.md
@@ -31,4 +31,4 @@ The 18 corrections of the final results pack (corrections file) and two later on
 
 *Included beyond the pack's 18: 19, the FGO trajectory-writer typo (D10), which changed stored FGO yaw values (≤ 0.17°) but no numbers.md row at its printed precision; and 20, the re-lock-time redefinition. Excluded (display or transcription fixes, no stored result changed): the single-rounding correction of numbers.md displays and the three transcription corrections (rulings 2026-10-16; M:14229-14247); the 'final safety run' restatement (ruling 2026-10-16 item 5), which re-labels which stored run is final.*
 
-<!-- generated by eval/figs_thesis_results.py (commit 0726900); stored results only. Sources, cross-checks and gaps: docs/thesis/figures_thesis/index_results.md, Table 7.4 (PROPOSED). -->
+<!-- generated by eval/figs_thesis_results.py (commit 6cfedde); stored results only. Sources, cross-checks and gaps: docs/thesis/figures_thesis/index_results.md, Table 7.4 (PROPOSED). -->

diff --git a/docs/thesis/tables/R4_information_vs_estimator.md b/docs/thesis/tables/R4_information_vs_estimator.md
@@ -19,4 +19,4 @@ For each condition: the primary metric of each estimator, the best–worst sprea
 
 *Blank floor: the +60 s and end-of-cruise values are runaway magnitudes (†, not reproducible across builds), so no ratio is formed from them; +30 s is used. Experiments 4 and 5 compare different statistics across the information contrast (stated in the row), so those ratios are indicative only. Experiment 3 (loop closure) has one estimator and no spread; Experiment 1C (closed loop) passes 3/3 for every estimator with the heading (Table 4.3), so it has no spread in its primary metric.*
 
-<!-- generated by eval/figs_thesis_results.py (commit 0726900); stored results only. Sources, cross-checks and gaps: docs/thesis/figures_thesis/index_results.md, Table 7.5 (PROPOSED). -->
+<!-- generated by eval/figs_thesis_results.py (commit 6cfedde); stored results only. Sources, cross-checks and gaps: docs/thesis/figures_thesis/index_results.md, Table 7.5 (PROPOSED). -->
